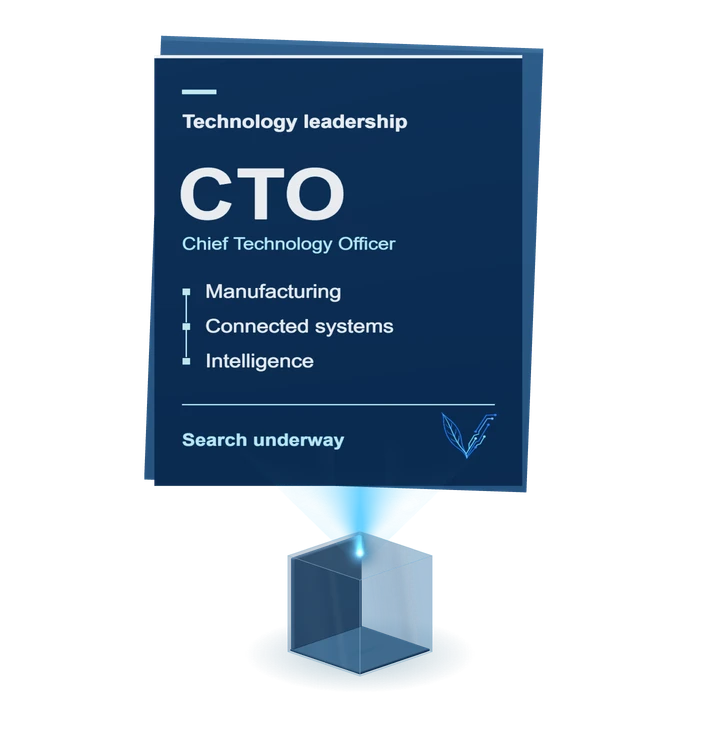
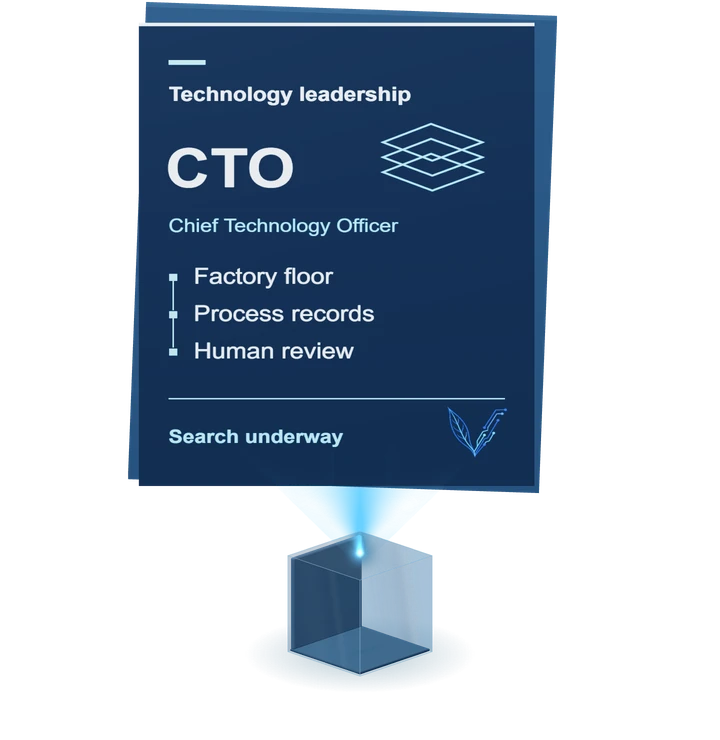
Unify Voltron wordmarks and release the hero and site refinements

Changed region(s): [[0.1528, 0.0, 0.7944, 0.6838]]

diff --git a/components/brand/commons-tree-renderer.ts b/components/brand/commons-tree-renderer.ts
@@ -15,13 +15,13 @@ type Mode='playing'|'paused'|'settled';
 /** Source anatomy and cutout foliage stay intact; particles reveal the finished surfaces. */
 export function mountCommonsTree(canvas:HTMLCanvasElement,host:HTMLDivElement,onMode:(mode:Mode)=>void){
  const handoff=createSceneHandoff(host,canvas),abort=new AbortController(),query=new URLSearchParams(location.search);
- let preparing=true,disposed=false,paused=false,visible=false,lost=false,frame=0,last=0,time=1.25,review=query.get('human-time')!==null;
+ let preparing=true,disposed=false,paused=false,visible=false,lost=false,frame=0,last=0,time=0,review=query.get('human-time')!==null;
  if(review)time=T.MathUtils.clamp(Number(query.get('human-time'))||0,0,commonsTreeDuration);
  let renderer:T.WebGLRenderer|undefined,draw=()=>{},resize=()=>{},release=()=>{};
  const dark=()=>document.documentElement.dataset.theme==='dark',reduced=()=>matchMedia('(prefers-reduced-motion: reduce)').matches;
  function stop(){cancelAnimationFrame(frame);frame=0;last=0;canvas.dataset.continuousRendering='false';}
- function schedule(){if(!renderer||disposed||paused||review||lost||!visible||document.hidden||reduced()||host.dataset.sceneState!=='live'||frame||time>=commonsTreeDuration)return;canvas.dataset.continuousRendering='true';frame=requestAnimationFrame(tick);}
- function tick(now:number){frame=0;if(disposed||paused||!visible||document.hidden||lost)return;time=Math.min(commonsTreeDuration,time+(last?Math.min(.08,(now-last)/1000):0));last=now;draw();if(time===commonsTreeDuration){stop();onMode('settled');}else schedule();}
+ function schedule(){if(!renderer||disposed||paused||review||lost||!visible||document.hidden||reduced()||host.dataset.sceneState!=='live'||frame)return;canvas.dataset.continuousRendering='true';frame=requestAnimationFrame(tick);}
+ function tick(now:number){frame=0;if(disposed||paused||!visible||document.hidden||lost)return;time+=last?Math.min(.08,(now-last)/1000):0;last=now;draw();schedule();}
  function fallback(){stop();handoff.fallback();host.dataset.fallback='true';host.dataset.scenePose='complete';onMode('settled');}
  function contextLost(e:Event){e.preventDefault();lost=true;fallback();}
  function contextRestored(){lost=false;delete host.dataset.fallback;draw();void handoff.reveal().then(schedule);}
@@ -70,13 +70,13 @@ export function mountCommonsTree(canvas:HTMLCanvasElement,host:HTMLDivElement,on
    let glowTune=1,glassOpacity=1,glassRoughness=1,glassReflection=1;
    const studio=observeArtworkTuning('commons',value=>{uniforms.particleScale.value=value.particleScale;glowTune=value.glow;glassOpacity=value.glassOpacity;glassRoughness=value.roughness;glassReflection=value.reflection;const key=scene.children.find(o=>o instanceof T.DirectionalLight) as T.DirectionalLight;key.position.x=-4+Math.sin(value.keyDirection)*5;materials.forEach((m,i)=>{m.roughness=T.MathUtils.clamp((i===0?.62:.68)*value.roughness,.15,1);m.envMapIntensity=.55*value.reflection;});draw();});
    release=()=>{studio.dispose();resources.forEach(r=>r.dispose());textures.forEach(t=>t.dispose());environment.dispose();renderer?.dispose();renderer?.forceContextLoss();};
-   draw=()=>{if(disposed||lost||!renderer)return;const state=commonsTreeState(time),night=dark();baseMaterial.color.setHex(night?0x406b84:0xc2d9e4);baseMaterial.opacity=state.cube*(night?.35:.55);shadowMaterial.opacity=state.cube*(night?.35:.65);uniforms.growth.value=state.growth;uniforms.canopy.value=state.canopy;uniforms.clock.value=time;uniforms.night.value=night?1:0;uniforms.ratio.value=renderer.getPixelRatio();construction.visible=state.growth>0&&state.growth<1;corners.visible=state.cube>.01;subject.rotation.y=state.yaw;
+   draw=()=>{if(disposed||lost||!renderer)return;const state=commonsTreeState(time),night=dark();baseMaterial.color.setHex(night?0x406b84:0xc2d9e4);baseMaterial.opacity=state.cube*(night?.35:.55);shadowMaterial.opacity=state.cube*(night?.35:.65);uniforms.growth.value=state.growth;uniforms.canopy.value=state.canopy;uniforms.clock.value=time;uniforms.night.value=night?1:0;uniforms.ratio.value=renderer.getPixelRatio();construction.visible=state.growth>0&&state.growth<1;corners.visible=state.cube>.01;subject.rotation.y=state.yaw+Math.max(0,time-commonsTreeDuration)*.12;
     materials.forEach((m,i)=>{m.color.setHex(night?(i===0?0x79a9c4:0x8cbac1):(i===0?0xa8c5d5:0xa9d0cb));if(i>0){m.emissive.setHex(night?0x258c8d:0x22776b);m.emissiveIntensity=T.MathUtils.smoothstep(state.canopy,.05,.4)*(.06+state.canopy*.16);}});
-    setGlass(cornerMaterial,'side',night);cornerMaterial.roughness=T.MathUtils.clamp(.20*glassRoughness,.10,.4);cornerMaterial.envMapIntensity=.85*glassReflection;const pulse=.55+.45*(.5+.5*Math.sin(time*5.4));cornerMaterial.color.setHex(night?0x305570:0x183c5c);cornerMaterial.color.lerp(new T.Color(night?0x8fd8ff:0x9adfff),state.glow);cornerMaterial.opacity=state.cube*Math.min(.62,(night?.49:.58)*glassOpacity);cornerMaterial.emissive.setHex(0x0a7fe0);cornerMaterial.emissiveIntensity=state.glow*pulse*.24*glowTune;
+    setGlass(cornerMaterial,'side',night);cornerMaterial.roughness=T.MathUtils.clamp(.20*glassRoughness,.10,.4);cornerMaterial.envMapIntensity=.85*glassReflection;const pulse=.55+.45*(.5+.5*Math.sin(time*5.4));cornerMaterial.color.setHex(night?0x2b506a:0x13334e);cornerMaterial.color.lerp(new T.Color(night?0x8fd8ff:0x9adfff),state.glow);cornerMaterial.opacity=state.cube*Math.min(.62,(night?.49:.58)*glassOpacity);cornerMaterial.emissive.setHex(0x0a7fe0);cornerMaterial.emissiveIntensity=state.glow*pulse*.24*glowTune;
     panes.forEach(({material:m,kind,index})=>{setGlass(m,kind,night);m.opacity=state.glazing*glassOpacity*(index===0?.025:index===4?.055:index===5?.09:night?.065:.08);m.roughness=.19*glassRoughness;m.envMapIntensity=.7*glassReflection;});
     host.dataset.glassFaces='6';host.dataset.cornerArm='.90';
     if(preparing)return;
-    renderer.render(scene,camera);canvas.dataset.animationTime=time.toFixed(3);canvas.dataset.yaw=state.yaw.toFixed(3);canvas.dataset.theme=night?'dark':'light';canvas.dataset.ready='true';canvas.dataset.settled=String(state.done);host.dataset.cells=String(commonsCornerCount);host.dataset.cube=state.cube>=1?'formed':'forming';host.dataset.glow=state.glow>.05?'pulsing':'off';host.dataset.phase=state.done?'settled':state.turn>0?'settling':state.growth>0?'growth':state.glow>0?'nodes':state.cube>0?'cube':'opening';};
+    renderer.render(scene,camera);canvas.dataset.animationTime=time.toFixed(3);canvas.dataset.yaw=subject.rotation.y.toFixed(3);canvas.dataset.theme=night?'dark':'light';canvas.dataset.ready='true';canvas.dataset.settled=String(state.done);host.dataset.cells=String(commonsCornerCount);host.dataset.cube=state.cube>=1?'formed':'forming';host.dataset.glow=state.glow>.05?'pulsing':'off';host.dataset.phase=state.done?'settled':state.turn>0?'settling':state.growth>0?'growth':state.glow>0?'nodes':state.cube>0?'cube':'opening';};
    resize=()=>{if(!renderer||disposed)return;const {width,height}=host.getBoundingClientRect();if(!width||!height)return;renderer.setSize(width,height,false);const aspect=width/height,extent=Math.max(6,6/aspect);camera.left=-extent*aspect/2;camera.right=extent*aspect/2;camera.top=extent/2;camera.bottom=-extent/2;camera.lookAt(0,1.75,0);camera.updateProjectionMatrix();draw();};
    if(reduced())time=commonsTreeDuration;resize();
    for(const texture of textures){

diff --git a/components/technology/operating-renderer.ts b/components/technology/operating-renderer.ts
@@ -125,11 +125,22 @@ export async function mountOperatingScene(canvas:HTMLCanvasElement,host:HTMLElem
  const dispatchRoot=new T.Group();dispatchRoot.position.x=-16;root.add(dispatchRoot);
  const parcel=box(root,[.9,.8,.8],[7,1.02,5.2],glass);box(dispatchRoot,[1.8,.015,1.5],[7,-.02,5.2],navy);
 
- function handler(){const g=new T.Group();root.add(g);box(g,[1.2,.6,.9],[0,.4,0],navy);box(g,[.15,1.8,.15],[.65,1,0],metal);const forks=new T.Group();g.add(forks);for(const z of [-.3,.3]){box(forks,[.9,handlingGeometry.forkThickness,.09],[1.05,0,z],metal);box(g,[.07,1.6,.07],[.45,1.1,z],metal);}box(g,[.7,.1,.9],[0,1.8,0],pearl);
+ function handler(){const wheels:T.Group[]=[];const g=new T.Group();root.add(g);box(g,[1.2,.6,.9],[0,.4,0],navy);box(g,[.15,1.8,.15],[.65,1,0],metal);const forks=new T.Group();g.add(forks);for(const z of [-.3,.3]){box(forks,[.9,handlingGeometry.forkThickness,.09],[1.05,0,z],metal);box(g,[.07,1.6,.07],[.45,1.1,z],metal);}box(g,[.7,.1,.9],[0,1.8,0],pearl);
  for(const z of [-.4,.4]){box(g,[.045,1.1,.045],[-.32,1.2,z],metal,.01);box(g,[.045,1.1,.045],[.31,1.2,z],metal,.01);}
  box(g,[.32,.45,.48],[-.22,.75,0],steelDark,.035);box(g,[.4,.09,.5],[0,.55,0],steelDark,.02);box(g,[.16,.6,.5],[.31,.75,0],navy,.025);
- box(g,[.2,.4,.76],[-.52,.44,0],polished,.035);for(const x of [-.4,.4])for(const z of [-.47,.47]){const w=new T.Mesh(own(new T.CylinderGeometry(.2,.2,.12,12)),navy);w.rotation.x=Math.PI/2;w.position.set(x,.2,z);g.add(w);}return {g,forks};}
+ box(g,[.2,.4,.76],[-.52,.44,0],polished,.035);for(const x of [-.4,.4])for(const z of [-.47,.47]){const w=new T.Mesh(own(new T.CylinderGeometry(.2,.2,.12,12)),navy);w.rotation.x=Math.PI/2;const axle=new T.Group();axle.position.set(x,.2,z);g.add(axle);axle.add(w);
+ box(axle,[.20,.035,.016],[0,0,Math.sign(z)*.067],metal,.005);wheels.push(axle);}
+ const lastPosition=new T.Vector3();let lastTime=-1,angle=0;
+ function roll(time:number){
+  if(lastTime>=0&&Math.abs(time-lastTime)<.4){
+   const dx=g.position.x-lastPosition.x,dz=g.position.z-lastPosition.z;
+   angle-=(dx*Math.cos(g.rotation.y)-dz*Math.sin(g.rotation.y))/.2;
+  }
+  wheels.forEach(wheel=>{wheel.rotation.z=angle;});lastPosition.copy(g.position);lastTime=time;
+ }
+ return {g,forks,roll};}
  const receiver=handler(),loader=handler();
+ const seatedForkHeight=operatingState(24).palletY+handlingGeometry.receiveForkOffset;
  // Fixed-length nested sleeves make the dispatch reach visible without stretching the forks.
  const reachStages=[new T.Group(),new T.Group()];loader.forks.add(reachStages[0]);reachStages[0].add(reachStages[1]);
  reachStages.forEach((stage,i)=>{for(const z of [-.3,.3])box(stage,[.74,.018,.075-i*.016],[1.13,0,z],i===0?steelDark:polished,.003);});
@@ -163,7 +174,11 @@ export async function mountOperatingScene(canvas:HTMLCanvasElement,host:HTMLElem
   dockBridge.visible=state.bridge>0;dockBridge.scale.x=Math.max(.001,state.bridge);dockBridge.position.x=-9.475-1.1*state.bridge/2;
   pallet.visible=state.time>=6&&state.time<24;pallet.position.set(state.part.x,state.palletY,state.part.z);
   receiver.g.visible=state.time>=11&&state.time<26;receiver.g.rotation.y=state.handlerYaw;receiver.g.position.set(state.part.x-Math.cos(state.handlerYaw)*1.05,0,state.part.z+Math.sin(state.handlerYaw)*1.05);receiver.forks.position.y=state.palletY+handlingGeometry.receiveForkOffset;
-  if(state.time>=24){const p=Math.min(1,(state.time-24)/2);receiver.g.position.set(-5-p*3,0,factoryLayout.wetLineZ);receiver.forks.position.y=.2;}
+  if(state.time>=24){
+   const retreat=T.MathUtils.smoothstep(state.time,24.3,26);
+   receiver.g.position.set(-4+1.05+retreat*1.4,0,factoryLayout.wetLineZ);
+   receiver.forks.position.y=T.MathUtils.lerp(seatedForkHeight,.2,T.MathUtils.smoothstep(state.time,24,24.3));
+  }
   carrier.position.set(state.time>=58?-4:state.carrier.x,0,state.time>=58?factoryLayout.returnLineZ:state.carrier.z);carrier.rotation.y=state.carrierYaw;turntables[0].rotation.y=-Math.PI/2*T.MathUtils.smoothstep(state.time,39.4,39.9);turntables[1].rotation.y=-Math.PI/2-Math.PI/2*T.MathUtils.smoothstep(state.time,52.3,52.8);carrier.visible=true;
   trolley.position.z=0;
   const attach=T.MathUtils.smoothstep(state.time,23,24)*(1-T.MathUtils.smoothstep(state.time,58,59));
@@ -182,6 +197,7 @@ export async function mountOperatingScene(canvas:HTMLCanvasElement,host:HTMLElem
   outbound.g.position.set(state.outboundX,0,6);outbound.g.visible=state.time>=67;outbound.update(state.outboundX,state.outboundDoor);outbound.roof.material=state.outboundDoor>.1?glass:pearl;
   loader.g.visible=state.time>=72&&state.time<80;loader.g.rotation.y=0;loader.g.position.set(Math.min(state.part.x-1.05,-8.8),0,state.part.z);loader.forks.position.y=handlingGeometry.dispatchForkHeight;const reach=dispatchReach(state.time,state.part.x);reachStages.forEach((stage,i)=>stage.position.x=reach.stages[i]);
   if(state.time>=78){loader.g.position.x=-8.8-(state.time-78)*1.3;loader.forks.scale.x=1;loader.forks.position.x=0;}
+  receiver.roll(state.time);loader.roll(state.time);
   scan.position.y=1.4-state.receiving*.8;scan.visible=state.time>=14.7&&state.time<16.5;receivingScanMaterial.opacity=scan.visible?.2*Math.sin(state.receiving*Math.PI):0;
   const baths=tanks.map(tank=>factoryBathState(state.time,tank.index));
   const draining=baths.find(bath=>bath.draining);

diff --git a/components/performance/ScenePoster.tsx b/components/performance/ScenePoster.tsx
@@ -31,5 +31,5 @@ export function ScenePoster({kind}:{kind:keyof typeof posters}) {
   const cultureOpening=kind==='handCulture'?responsiveOpening.handCulture as Record<string,{light:string;dark:string}>:undefined;
   const nativeStyle=native?Object.fromEntries(Object.entries(native).flatMap(([device,frame])=>{const aspect=frame.width/frame.height,h=Math.max(fit.minHeight,fit.minWidth/aspect);return [[`--scene-native-${device}-width`,h*aspect],[`--scene-native-${device}-height`,h]];})) as CSSProperties:undefined;
   const scale=`min(calc((100cqw - 2 * ${padding}) / ${fit.minWidth}),calc((100cqh - 2 * ${padding}) / ${fit.minHeight}))`;
-  return <span className={`scene-poster${kind==='home'?' scene-poster-home':''}`} aria-hidden="true">{(['opening','complete'] as const).map(pose=><span key={pose} className={`scene-pose-${pose}`}>{pose==='opening' && (kind==='home'||kind==='technology'||kind==='plant'||kind==='process')?<NativeOpening scene={kind}/>: (['light','dark'] as const).map(theme => <Picture key={theme} initial={kind==='home'&&pose==='opening'} style={pose==='opening'?nativeStyle:undefined} className={`art-theme-${theme} ${pose==='opening'&&responsive?`scene-responsive-opening scene-responsive-${kind}${native?' scene-native-opening':''}`:''}`}>{pose==='opening'&&cultureOpening?.mobileTall&&<source media="(max-width:767px) and (min-height:884px)" srcSet={hdOpening(kind,'mobileTall',theme,cultureOpening.mobileTall[theme])}/>} {pose==='opening'&&responsive&&<source media="(max-width:767px)" srcSet={hdOpening(kind,'mobile',theme,responsive.mobile[theme])}/>}{pose==='opening'&&cultureOpening?.tablet&&<source media="(min-width:768px) and (max-width:1023px)" srcSet={hdOpening(kind,'tablet',theme,cultureOpening.tablet[theme])}/>} {pose==='opening'&&cultureOpening?.short&&<source media="(min-width:1024px) and (max-height:780px)" srcSet={hdOpening(kind,'short',theme,cultureOpening.short[theme])}/>}{pose==='opening'&&cultureOpening?.tall&&<source media="(min-width:1024px) and (min-height:920px)" srcSet={hdOpening(kind,'tall',theme,cultureOpening.tall[theme])}/>}<img {...(pose==='complete'?hdPoster(kind,pose,theme,posters[kind][theme]):{srcSet:hdOpening(kind,responsive?'desktop':'generic',theme,responsive?responsive.desktop[theme]:opening[kind][theme])})} className={`art-theme-${theme}`} src={pose==='opening'&&responsive?responsive.desktop[theme]:(pose==='opening'?opening:posters)[kind][theme]} width="640" height="520" alt="" decoding="async" loading='lazy' fetchPriority={pose==='opening'&&kind==='home'?'high':'auto'} style={{width:kind==='home'?'calc(100cqh * 1.5 * var(--home-poster-fov,1))':`calc(${scale} * ${pose==='opening'&&native?`var(--scene-native-width, ${fit.width})`:fit.width})`,height:kind==='home'?'calc(100cqh * var(--home-poster-fov,1))':`calc(${scale} * ${pose==='opening'&&native?`var(--scene-native-height, ${fit.height})`:fit.height})`,maxWidth:'none',objectFit:'fill'}} /></Picture>)}</span>)}</span>;
+  return <span className={`scene-poster${kind==='home'?' scene-poster-home':''}`} aria-hidden="true">{(['opening','complete'] as const).map(pose=><span key={pose} className={`scene-pose-${pose}`}>{pose==='opening' && (kind==='home'||kind==='technology'||kind==='plant'||kind==='process')?<NativeOpening scene={kind}/>: (['light','dark'] as const).map(theme => <Picture key={theme} initial={kind==='home'} style={pose==='opening'?nativeStyle:undefined} className={`art-theme-${theme} ${pose==='opening'&&responsive?`scene-responsive-opening scene-responsive-${kind}${native?' scene-native-opening':''}`:''}`}>{pose==='opening'&&cultureOpening?.mobileTall&&<source media="(max-width:767px) and (min-height:884px)" srcSet={hdOpening(kind,'mobileTall',theme,cultureOpening.mobileTall[theme])}/>} {pose==='opening'&&responsive&&<source media="(max-width:767px)" srcSet={hdOpening(kind,'mobile',theme,responsive.mobile[theme])}/>}{pose==='opening'&&cultureOpening?.tablet&&<source media="(min-width:768px) and (max-width:1023px)" srcSet={hdOpening(kind,'tablet',theme,cultureOpening.tablet[theme])}/>} {pose==='opening'&&cultureOpening?.short&&<source media="(min-width:1024px) and (max-height:780px)" srcSet={hdOpening(kind,'short',theme,cultureOpening.short[theme])}/>}{pose==='opening'&&cultureOpening?.tall&&<source media="(min-width:1024px) and (min-height:920px)" srcSet={hdOpening(kind,'tall',theme,cultureOpening.tall[theme])}/>}<img {...(pose==='complete'?hdPoster(kind,pose,theme,posters[kind][theme]):{srcSet:hdOpening(kind,responsive?'desktop':'generic',theme,responsive?responsive.desktop[theme]:opening[kind][theme])})} className={`art-theme-${theme}`} src={pose==='opening'&&responsive?responsive.desktop[theme]:(pose==='opening'?opening:posters)[kind][theme]} width="640" height="520" alt="" decoding="async" loading={kind==='home'?'eager':'lazy'} fetchPriority={pose==='opening'&&kind==='home'?'high':'auto'} style={{width:kind==='home'?'calc(100cqh * 1.5 * var(--home-poster-fov,1))':`calc(${scale} * ${pose==='opening'&&native?`var(--scene-native-width, ${fit.width})`:fit.width})`,height:kind==='home'?'calc(100cqh * var(--home-poster-fov,1))':`calc(${scale} * ${pose==='opening'&&native?`var(--scene-native-height, ${fit.height})`:fit.height})`,maxWidth:'none',objectFit:'fill'}} /></Picture>)}</span>)}</span>;
 }

diff --git a/app/about/voltron-commons/page.tsx b/app/about/voltron-commons/page.tsx
@@ -1,19 +1,30 @@
-import {ReplayableStudy} from '@/components/brand/ReplayableStudy';
+import {BookOpen, Boxes, Compass, DoorOpen, Leaf, Lightbulb, ScanEye, Waypoints} from 'lucide-react';
 import type { Metadata } from 'next';
 import {Hero} from '@/components/brand/Hero';
 import {HumanHeroArtwork} from '@/components/brand/HumanHeroArtwork';
 import {Action,Intro,Section,SiteShell} from '@/components/brand/SiteShell';
-import {CommonsStudy} from '@/components/commons/CommonsStudy';
+
 import {commonsStudies} from '@/components/commons/commons-content';
 import '../../home-surfaces.css';
 import '../../supporting-pages.css';
 import './commons.css';
 
 export const metadata:Metadata={title:'Voltron Commons',description:'Explore manufacturing, exchange perspectives and help shape developing directions for access, learning and shared progress.'};
+const cardIcons = {
+ resources: [DoorOpen], learning: [Lightbulb, Waypoints, ScanEye, Leaf],
+ programs: [BookOpen, Boxes, Compass], participation: [BookOpen, Waypoints, Leaf],
+};
+function CommonsCards({kind}:{kind:keyof typeof cardIcons}) {
+ const items = kind === 'programs' ? commonsStudies.programs.slice(0,3) : commonsStudies[kind];
+ return <div className="commons-participation commons-icon-cards">{items.map(([title,,description], index) => {
+  const Icon = cardIcons[kind][index];
+  return <article key={title}><Icon aria-hidden="true" size={24}/><h3>{title}</h3><p>{description}</p></article>;
+ })}</div>;
+}
 export default function CommonsPage(){return <SiteShell><div className="supporting-page commons-page">
  <Hero className="human-story-hero commons-workshop-hero" breadcrumb="Voltron Commons" eyebrow="Voltron Commons" keywords="Access · Learning · Possibility" title="Voltron Commons" illustration={<HumanHeroArtwork kind="commons"/>} primary="Explore and learn" href="#commons-directions" secondary="Explore a collaboration" secondaryHref="/partner?interest=commons#partnership"/>
- <Section id="commons-directions"><Intro eyebrow="Access creates capability" title="Give access. Build agency.">Step inside the connected factory. Follow one lot through treatment and inspection, and open the records behind each decision.</Intro><ReplayableStudy inline label="resources"><CommonsStudy kind="resources"/></ReplayableStudy></Section>
- <Section id="shared-learning"><Intro eyebrow="Capability enables contribution" title="Learning beyond a single discipline.">Follow a sketch from the page to a formed surface, then see the observation added to the original drawing.</Intro><ReplayableStudy inline label="learning"><CommonsStudy kind="learning"/></ReplayableStudy></Section>
- <Section id="developing-directions"><Intro title="More ways to learn">Three pathways in development.</Intro><div className="commons-participation">{commonsStudies.programs.slice(0,3).map(([title,,text])=><article key={title}><h3>{title}</h3><p>{text}</p></article>)}</div></Section>
- <Section id="participation"><Intro eyebrow="Contribution creates shared growth" title="Bring a question, a practice, or a possibility.">A conversation can begin with something you already know, something you want to understand or a place you want to help.</Intro><div className="commons-participation">{commonsStudies.participation.map(([title,heading,text])=><article key={title}><div className="desktop-story-details"><h3>{title}</h3><p>{text}</p></div><details className="mobile-story-details"><summary>{title}</summary><p>{text}</p></details></article>)}</div><div className="commons-invitation"><p>Explore how your experience, research or community initiative could contribute to Commons.</p><Action href="/partner?interest=commons#partnership">Explore a collaboration</Action></div></Section>
+ <Section id="commons-directions"><Intro eyebrow="Access creates capability" title="Give access. Build agency.">Step inside the connected factory. Follow one lot through treatment and inspection, and open the records behind each decision.</Intro><CommonsCards kind="resources"/></Section>
+ <Section id="shared-learning"><Intro eyebrow="Capability enables contribution" title="Learning beyond a single discipline.">Four ways to explore a question across disciplines.</Intro><CommonsCards kind="learning"/></Section>
+ <Section id="developing-directions"><Intro title="More ways to learn">Three pathways in development.</Intro><CommonsCards kind="programs"/></Section>
+ <Section id="participation"><Intro eyebrow="Contribution creates shared growth" title="Bring a question, a practice, or a possibility.">A conversation can begin with something you already know, something you want to understand or a place you want to help.</Intro><CommonsCards kind="participation"/><div className="commons-invitation"><p>Explore how your experience, research or community initiative could contribute to Commons.</p><Action href="/partner?interest=commons#partnership">Explore a collaboration</Action></div></Section>
  </div></SiteShell>;}

diff --git a/components/about/leadership-renderer.ts b/components/about/leadership-renderer.ts
@@ -98,14 +98,20 @@ export async function mountLeadership(canvas:HTMLCanvasElement,host:HTMLDivEleme
    ctx.fillStyle=dark?'#102840':'#edf6ff';ctx.fillRect(0,0,600,800);
    ctx.fillStyle=accent;ctx.fillRect(45,59,56,8);
    ctx.fillStyle=ink;ctx.font='600 34px sans-serif';ctx.fillText('Technology leadership',45,130);
-   ctx.font='700 132px sans-serif';ctx.fillText('CTO',37,301);
+   ctx.font='600 94px sans-serif';ctx.fillText('CTO',40,280);
+   // Three connected layers share one drawing datum on the leadership brief.
+   ctx.strokeStyle=accent;ctx.lineWidth=3;
+   for(let level=0;level<fields;level++){
+    const y=202+level*26;
+    ctx.beginPath();ctx.moveTo(370,y);ctx.lineTo(443,y-32);ctx.lineTo(521,y);ctx.lineTo(445,y+32);ctx.closePath();ctx.stroke();
+   }
    ctx.fillStyle=accent;ctx.font='500 32px sans-serif';ctx.fillText('Chief Technology Officer',45,358);
-   const rows=['Manufacturing','Connected systems','Intelligence'];
+   const rows=['Factory floor','Process records','Human review'];
    for(let i=0;i<fields;i++){
     const y=440+i*65;
     ctx.fillStyle=accent;ctx.fillRect(46,y-9,12,12);
     if(i>0)ctx.fillRect(51,y-62,2,51);
-    ctx.fillStyle=ink;ctx.font='500 35px sans-serif';ctx.fillText(rows[i],83,y+8);
+    ctx.fillStyle=ink;ctx.font='500 38px sans-serif';ctx.fillText(rows[i],83,y+8);
    }
    if(sealed){
     ctx.fillStyle=accent;ctx.fillRect(45,647,510,2);
@@ -115,7 +121,7 @@ export async function mountLeadership(canvas:HTMLCanvasElement,host:HTMLDivEleme
    map.needsUpdate=true;
   };
   const map=track(new T.CanvasTexture(sheet));map.colorSpace=T.SRGBColorSpace;map.anisotropy=Math.min(4,renderer.capabilities.getMaxAnisotropy());
-  const printed=track(new T.MeshPhysicalMaterial({map,roughness:.38,clearcoat:.55,clearcoatRoughness:.22,clippingPlanes:[mask]}));
+  const printed=track(new T.MeshPhysicalMaterial({map,roughness:.56,clearcoat:.16,clearcoatRoughness:.38,clippingPlanes:[mask]}));
   const face=new T.Mesh(track(new T.PlaneGeometry(width,height)),printed);face.position.set(-.12,0,.168);subject.add(face);
   subject.position.set(0,height/2,-.13);
   updateBrief=drawBrief;
@@ -139,7 +145,7 @@ export async function mountLeadership(canvas:HTMLCanvasElement,host:HTMLDivEleme
    fragmentShader:`varying vec2 uvImage;uniform sampler2D map;uniform float reveal;
     void main(){vec4 texel=texture2D(map,uvImage);float grey=dot(texel.rgb,vec3(.2126,.7152,.0722));
     float delta=reveal-uvImage.y;float light=.065*exp(-abs(delta)*80.);
-    gl_FragColor=vec4(mix(vec3(.012,.031,.063),vec3(.96,.98,1.),pow(grey,.82))+vec3(.014,.09,.16)*sin(grey*3.14159)+light*vec3(.4,.7,1.),texel.a*smoothstep(0.,.10,uvImage.y)*smoothstep(-.02,.02,delta));
+    gl_FragColor=vec4(mix(vec3(.012,.031,.063),vec3(.96,.98,1.),pow(grey,.94))+vec3(.014,.09,.16)*sin(grey*3.14159)+light*vec3(.4,.7,1.),texel.a*smoothstep(0.,.10,uvImage.y)*smoothstep(-.02,.02,delta));
     #include <colorspace_fragment>
     }`}));
   const photo=new T.Mesh(face,image);photo.renderOrder=3;subject.add(photo);
@@ -180,7 +186,7 @@ export async function mountLeadership(canvas:HTMLCanvasElement,host:HTMLDivEleme
     mantle.scale.set(portraitWidth*scale*.86,height,1);
     mantle.position.set(.04,origin+height/2,0);
     spill.uniforms.join.value=(portraitBottom-origin)/height;
-    spill.uniforms.amount.value=formed*(dark?.42:.30);
+    spill.uniforms.amount.value=formed*(dark?.34:.24);
     spill.uniforms.dark.value=Number(dark);
    }
   }
@@ -190,7 +196,7 @@ export async function mountLeadership(canvas:HTMLCanvasElement,host:HTMLDivEleme
    const automotive=kind==='automotive';
    content.position.y=automotive?-.26:-.63;
    content.rotation.set(automotive?.14:0,automotive?.77:.13*(1-formed),0);
-   content.scale.setScalar(scale*(automotive?1.82:1.06));
+   content.scale.setScalar(scale*(automotive?1.82:1.14));
    mask.constant=kind==='search'?2.6:-.65+3*T.MathUtils.smoothstep(time,0,1.2);
    beam.set(.68*formed,dark,time,camera);
    updateBrief?.(time,dark);

diff --git a/components/network/network-renderer.ts b/components/network/network-renderer.ts
@@ -1,5 +1,6 @@
 export {prepareArtworkEnvironment} from '../brand/artwork-studio';
 import * as T from 'three';
+import {receivingForkPath} from "./network-simulation";
 import {plantFrame} from './plant-framing';
 import {operatingFacility} from './authored-scenes';
 import {mountAuthoredNetwork} from './authored-renderer';
@@ -47,7 +48,8 @@ function mountOwnedNetwork(canvas:HTMLCanvasElement,host:HTMLElement,kind:Networ
  const ram=kit.box(lift,[.25,1,.24],[0,0,0],kit.steel);
  const liftTop=kit.box(lift,[.88,.08,.65],[0,0,0],kit.steel);
  let transfer:T.Group|undefined;const routes:T.Line[]=[],paths:Point[][]=[],signals:T.Mesh[]=[];
- const forkLift=new T.Group();handler.add(forkLift);for(const x of [-.18,.18])kit.box(forkLift,[.1,.08,1.1],[x,.27,0],kit.steel);for(const x of [-.4,.4])for(const z of [.55,1.05]){const wheel=new T.Mesh(own(new T.CylinderGeometry(.16,.16,.1,12)),kit.navy);wheel.rotation.z=Math.PI/2;wheel.position.set(x,.17,z);handler.add(wheel);}
+ const handlerWheels:T.Group[]=[];const forkLift=new T.Group();handler.add(forkLift);for(const x of [-.18,.18])kit.box(forkLift,[.1,.08,1.1],[x,.27,0],kit.steel);for(const x of [-.4,.4])for(const z of [.55,1.05]){const wheel=new T.Mesh(own(new T.CylinderGeometry(.16,.16,.1,12)),kit.navy);wheel.rotation.z=Math.PI/2;const axle=new T.Group();axle.position.set(x,.16,z);handler.add(axle);axle.add(wheel);
+ kit.box(axle,[.012,.16,.035],[Math.sign(x)*.057,0,0],kit.steel);handlerWheels.push(axle);}
  if(kind==='learning'){
   primary.g.position.set(-7,0,3);primary.g.scale.setScalar(.7);
   const second=kit.factory(root,1);second.g.position.set(7,0,3);second.g.scale.setScalar(.7);factories.push(second);
@@ -84,7 +86,9 @@ function mountOwnedNetwork(canvas:HTMLCanvasElement,host:HTMLElement,kind:Networ
   const insertion=T.MathUtils.smoothstep(time,5.1,5.5);
   const withdrawal=T.MathUtils.smoothstep(time,8.15,9.1);
   handler.position.set(time<5.5?-4.5:time<8?p.part[0]:-2.4+withdrawal*1.8,0,time<5.5?1.6+1.6*insertion:time<8?p.part[2]:-1.8);
-  handler.rotation.y=Math.PI-Math.PI*.5*T.MathUtils.smoothstep(time,7.1,7.25);
+  const path=receivingForkPath(time);handler.rotation.y=path.yaw;
+  const travel=path.distance+withdrawal*1.8-insertion*1.6;
+  handlerWheels.forEach(wheel=>{wheel.rotation.x=travel/.16;});
   forkLift.position.y=(time<5.5?.805:time<8?p.part[1]:1.12)-.325-.31;
   factories.forEach((f,i)=>{const localTime=kind==='owned'?time:kind==='learning'?(i===0?8+Math.min(3,time):i===1?Math.max(0,time-8):0):kind==='partnership'?Math.max(0,time-4):0;const operation=productionState(localTime);f.carrier.position.set(localTime<8?-2.4:operation.part[0],0,-1.8);f.hook.position.y=localTime<8?0:operation.part[1]-1.12;f.part.visible=kind==='owned'?true:kind==='learning'&&((i===0&&time<8)||(i===1&&time>=16&&time<20));if(kind==='owned')f.part.position.fromArray(p.part);f.scan.visible=kind==='owned'?p.scan:kind==='learning'&&i===1&&time>=18&&time<20;const sweep=inspectionSweep(time);f.scan.userData.scanner.update(f.scan.visible?sweep.strength:0,dark);f.scan.position.y=sweep.height;f.record.visible=kind==='owned'?p.record:kind==='learning'?time>=[3,12,21][i]:false;f.capability.visible=kind==='owned'?time>=20:false;f.cargo.visible=false;f.tanks.forEach((tank,j)=>{tank.material=operation.phase==='Dwell'&&j===2?kit.active:kit.navy;});});
   if(kind==='owned'){primary.carrier.position.x=time>=12?4.2:Math.max(-2.4,Math.min(4.2,p.part[0]));primary.hook.position.y=0;

diff --git a/components/brand/collaboration-renderer.ts b/components/brand/collaboration-renderer.ts
@@ -69,7 +69,7 @@ export async function mountCollaboration(canvas:HTMLCanvasElement,host:HTMLEleme
  function size(){const r=host.getBoundingClientRect();if(!r.width||!r.height)return;renderer.setSize(r.width,r.height,false);aspect=r.width/r.height;const h=Math.max(kind==='about'?5.6:partnerStage.height,(kind==='about'?7.4:partnerStage.width)/aspect);camera.left=-h*aspect/2;camera.right=h*aspect/2;camera.top=h/2;camera.bottom=-h/2;camera.updateProjectionMatrix();draw();}
  function stop(){cancelAnimationFrame(frame);frame=0;last=0;quality.reset();host.dataset.running='false';}
  function schedule(){if(!disposed&&!lost&&!prefersStaticScene()&&!paused&&!frozen&&visible&&!document.hidden&&!frame&&host.dataset.sceneState==='live'){host.dataset.running='true';frame=requestAnimationFrame(tick);}}
- function tick(now:number){frame=0;if(disposed||lost||!visible||document.hidden||paused||frozen)return;time+=last?Math.min(.08,(now-last)/1000):0;if(time>14)time=kind==="partner"?8:0;last=now;if(quality.sample(now)){renderer.setPixelRatio(quality.ratio);size();}draw();schedule();}
+ function tick(now:number){frame=0;if(disposed||lost||!visible||document.hidden||paused||frozen)return;time+=last?Math.min(.08,(now-last)/1000):0;if(time>14)time%=14;canvas.style.filter=time>13?"opacity("+Math.max(0,14-time)+")":"";last=now;if(quality.sample(now)){renderer.setPixelRatio(quality.ratio);size();}draw();schedule();}
  const sizing=new ResizeObserver(size),themes=new MutationObserver(draw),view=new IntersectionObserver(([e])=>{visible=e.isIntersecting&&e.intersectionRatio>=.25;if(visible)schedule();else stop();},{threshold:[0,.25]});
  const visibility=()=>document.hidden?stop():schedule(),contextLost=(e:Event)=>{e.preventDefault();lost=true;stop();handoff.fallback();onMode('static');},restore=()=>{lost=false;size();void handoff.reveal().then(()=>{if(!disposed){onMode(time===12?'settled':paused?'paused':'playing');schedule();}});};
  const controller:CollaborationController={toggle(){if(time===12)return;paused=!paused;if(paused)stop();else{frozen=false;schedule();}onMode(paused?'paused':'playing');},replay(){stop();time=0;paused=frozen=false;draw();onMode('playing');schedule();},seek(value){stop();time=Number.isFinite(value)?T.MathUtils.clamp(value,0,12):0;paused=frozen=true;draw();onMode(time===12?'settled':'paused');},dispose(){if(disposed)return;disposed=true;stop();handoff.dispose();sizing.disconnect();themes.disconnect();view.disconnect();document.removeEventListener('visibilitychange',visibility);canvas.removeEventListener('webglcontextlost',contextLost);canvas.removeEventListener('webglcontextrestored',restore);signal.removeEventListener('abort',controller.dispose);mixers.forEach(m=>{m.stopAllAction();m.uncacheRoot(m.getRoot());});const skeletons=new Set<T.Skeleton>();people.forEach(root=>root.traverse(o=>{if(o instanceof T.SkinnedMesh)skeletons.add(o.skeleton);}));skeletons.forEach(s=>s.dispose());formations.forEach(f=>f.dispose());partnership?.dispose();geometries.forEach(g=>g.dispose());materials.forEach(m=>m.dispose());key.shadow.dispose();environment.dispose();renderer.dispose();renderer.forceContextLoss();}};

diff --git a/components/intelligence/IntelligenceStory.tsx b/components/intelligence/IntelligenceStory.tsx
@@ -15,13 +15,23 @@ function RecordSheet({title,children,open,onClose}:{title:string;children:React.
  const ref=useInspectorSheet(open),id=useId();
  return <dialog onKeyDown={containDialogFocus} ref={ref} className="intelligence-sheet" aria-labelledby={id} onCancel={onClose} onClose={e=>{if(!e.currentTarget.open)onClose();}} onClick={e=>{if(isDialogBackdropClick(e))onClose();}}><header><h3 id={id}>{title}</h3><button type="button" aria-label="Close details" onClick={onClose}><X size={20}/></button></header>{children}</dialog>;
 }
-function LotBadge(){return <div className="investigation-identity"><span>{investigation.lot}</span><span>{investigation.station}</span><span>Connected to Technology</span></div>;}
-function RecordDetail({selected}:{selected:number}){return <><p className="eyebrow">Connected evidence</p><h3>{evidenceSources[selected][0]}</h3><p>{evidenceSources[selected][1]}</p><dl className="record-provenance"><div><dt>Identity</dt><dd>{investigation.lot}</dd></div><div><dt>Operation</dt><dd>{investigation.station}</dd></div><div><dt>Retained</dt><dd>Source · time · revision</dd></div></dl></>;}
+function LotBadge(){return <div className="investigation-identity"><span>{investigation.lot}</span><span>{investigation.station}</span><span>Illustrative investigation</span></div>;}
+const sourceChecks=[
+ 'Match the channel and reading time to this operation.',
+ 'Match the inspected feature and inspection method to the requirement.',
+ 'Check the instrument identity and calibration validity on the measurement date.',
+ 'Link the nonconformance to the affected lot and its corrective action.',
+ 'Confirm the document owner and the revision used for the operation.',
+ 'Match the sample identity and test method to the lot.',
+ 'Verify the issuer and the material or lot covered by the certificate.',
+ 'Check who made the observation, when, and at which station.',
+] as const;
+function RecordDetail({selected}:{selected:number}){return <><p className="eyebrow">Connected evidence</p><h3>{evidenceSources[selected][0]}</h3><p>{evidenceSources[selected][1]}</p><dl className="record-provenance"><div><dt>Identity</dt><dd>{investigation.lot}</dd></div><div><dt>Operation</dt><dd>{investigation.station}</dd></div></dl><div className="evidence-check"><strong>Check before review</strong><p>{sourceChecks[selected]}</p></div></>;}
 function EvidenceDiagram({stage,source}:{stage:number;source:number}){
  const rows=[
   {title:investigation.station,detail:'Condition observed'},
   {title:investigation.lot,detail:'Lot traced to this operation'},
-  {title:evidenceSources[source][0],detail:'Source retained for review'},
+  {title:evidenceSources[source][0],detail:'Linked record · awaiting human review'},
  ];
  return <ol className="evidence-trace" aria-label="How the evidence is assembled">
   {rows.map(({title,detail},index)=><li key={index} data-reached={index<=stage} aria-current={index===stage?'step':undefined}>

diff --git a/components/technology/operating-model.ts b/components/technology/operating-model.ts
@@ -109,10 +109,16 @@ export function operatingState(input:number){
  const depart=smooth((time-82)/5),outboundX=-19+smooth((time-67)/3)*13-depart*13;
  const receiving=travel(time,[[10,-10.6,1.055,factoryLayout.wetLineZ+1.7],[11,-10.6,1.055,factoryLayout.wetLineZ+1.7],[14,-9,1.055,factoryLayout.wetLineZ],[14.7,-9,.475,factoryLayout.wetLineZ],[16.5,-9,.475,factoryLayout.wetLineZ],[17.3,-9,1.055,factoryLayout.wetLineZ],[18,-9,1.055,factoryLayout.wetLineZ],[20,-6,1.055,factoryLayout.wetLineZ],[22,-6,1.055,factoryLayout.wetLineZ],[24,-4,1.055,factoryLayout.wetLineZ]]);
  const postProcess=travel(time,[[58,-4,1.055,factoryLayout.returnLineZ],[67,-4,1.055,factoryLayout.returnLineZ],[68,-4,1.055,4.8],[69,-9,1.055,4.8],[69.6,-9,1.055,5.2],[70.3,-9,.955,5.2],[73,-9,.955,5.2],[75,-9,.955,6],[78,-6.4,.955,6],[82,-6.4,.955,6],[87,-19.4,.955,6]]);
+ if(time>=11&&time<=14){
+  const progress=smooth((time-11)/3);
+  receiving.x=-10.6+1.6*progress;
+  receiving.z=factoryLayout.wetLineZ+1.7*(1-progress*progress*(3-2*progress));
+ }
  const part=time<10?{x:incomingX+1.4,y:1.055,z:factoryLayout.wetLineZ+1.7}:time<24?receiving:time<58?process:postProcess;
  const event=operatingEvents.filter(e=>e[0]<=time).at(-1),eventProgress=event?clamp((time-event[0])/2):1;
  const signals=event&&time<event[0]+2?event[2].map(product=>({product,entity:event[1],progress:eventProgress})):[];
- const handlerYaw=Math.PI*(1-smooth((time-17.3)/.7))+Math.PI/2*smooth((time-19.7)/.6)-Math.PI/2*smooth((time-21.7)/.6);
+ const laneChange=smooth((time-11)/3);
+ const handlerYaw=Math.PI+Math.atan2(1.7*6*laneChange*(1-laneChange),1.6);
  const qualityPhase=time<58?'Waiting for lot':time<61.5?'Positioning':time<62?'Fixture clamping':time<65?'Inspection in progress':time<66?'Evidence recorded':time<67?'Released':'Ready for next lot';
  const scanning=time>=62&&time<65;
  return {time,chapter,hold,reviewed,released,dispatched:time>=87,routeIndex,carrier:{x:carrierX,z:carrierZ},railProgress:routeIndex,carrierYaw:-Math.PI/2*smooth((time-39.4)/.5)-Math.PI/2*smooth((time-52.3)/.5),ovenDoor,ovenEntryOpen,ovenExitOpen,ovenActive,processStage:time<24?'Receiving':time<30?'Tank 01':time<36?'Tank 02':time<38.65?'Tank 03':time<40.6?'Transfer to CED':time<51.2?'CED · T04':time<53.5?'Oven infeed':time<56.5?'Curing oven':time<58?'Transfer to quality':time<67?'Inspection':'Dispatch',part,incomingX,handlerYaw,outboundX,

diff --git a/components/entry/BrandEntry.tsx b/components/entry/BrandEntry.tsx
@@ -9,6 +9,8 @@ import { ThemeToggle } from "@/components/brand/ThemeToggle";
 import { EntryAudio } from "./EntryAudio";
 import { entryDuration, entryStateAt, advanceEntryClock } from "./entry-timeline";
 import {prefersStaticScene} from '../performance/scene-policy';
+import scenePosters from "@/lib/scene-posters.json";
+import {EntryDissolve,entryExitMs} from "./EntryDissolve";
 import {IdentityTile} from './IdentityTile';
 
 
@@ -28,6 +30,7 @@ export function BrandEntry({locked=false,children,extraControls,celebration}:{lo
   const faceRef=useRef(0),readyRef=useRef(false);
   const navigation=useRef<ReturnType<typeof setTimeout> | null>(null);
   const router=useRouter();
+  useEffect(()=>{if(!locked)router.prefetch("/?enter=1");},[locked,router]);
   const [paused,setPaused]=useState(false);
   const pausedRef=useRef(false),motionControl=useRef<(()=>void) | null>(null);
   useEffect(()=>()=>{if(navigation.current)clearTimeout(navigation.current);},[]);
@@ -90,8 +93,10 @@ export function BrandEntry({locked=false,children,extraControls,celebration}:{lo
   function enter(event: MouseEvent<HTMLAnchorElement>, skip=false){
     if(locked || (!ready && !skip) || leaving){event.preventDefault();return;}
     if(event.metaKey || event.ctrlKey || event.shiftKey || event.altKey || event.button!==0)return;
-    event.preventDefault();setLeaving(true);
-    navigation.current=setTimeout(()=>router.push("/?enter=1"+window.location.hash),matchMedia("(prefers-reduced-motion: reduce)").matches?0:420);
+    event.preventDefault();
+    if(prefersStaticScene()){router.push("/?enter=1"+window.location.hash);return;}
+    setLeaving(true);
+    navigation.current=setTimeout(()=>router.push("/?enter=1"+window.location.hash),entryExitMs);
   }
 
   return <main id="main-content" ref={host} className={`brand-entry${children?" launch-entry":""}${leaving?" entry-leaving":""}`} data-phase="8" data-settled="true" data-paused={paused}>
@@ -118,5 +123,5 @@ export function BrandEntry({locked=false,children,extraControls,celebration}:{lo
     {children}
     </div>
     </div>
-  </main>;
+  {leaving&&<><div className="entry-home-reveal" aria-hidden="true">{(["light","dark"] as const).map(theme=><img key={theme} className={"art-theme-"+theme} src={scenePosters.home[theme]} alt=""/>)}</div><EntryDissolve/></>}</main>;
 }

diff --git a/components/brand/partner-brief.ts b/components/brand/partner-brief.ts
@@ -30,7 +30,7 @@ export function createPartnerBrief(scene:T.Scene,logo:T.Texture,mobile:boolean){
  const acknowledgement=content(9.6,.45,true),ackMaterial=acknowledgement.material();for(const x of[-.31,-.15]){const g=new T.Mesh(track(new T.BoxGeometry(.038,.038,.003)),ackMaterial);g.position.set(x,-.48,0);acknowledgement.g.add(g);}const link=new T.Mesh(track(new T.PlaneGeometry(.10,.005)),ackMaterial);link.position.set(-.23,-.48,0);acknowledgement.g.add(link);
  logo.colorSpace=T.SRGBColorSpace;logo.anisotropy=4;
  const impressionMaterial=new T.MeshBasicMaterial({map:logo,transparent:true,opacity:0,depthWrite:false,toneMapped:false}),ghostMaterial=impressionMaterial.clone();materials.push(impressionMaterial,ghostMaterial);
- const logoGeometry=track(new T.PlaneGeometry(.38,.38)),impression=new T.Mesh(logoGeometry,impressionMaterial),ghost=new T.Mesh(logoGeometry,ghostMaterial);impression.position.set(.27,-.46,.035);ghost.position.copy(impression.position);impression.renderOrder=4;ghost.renderOrder=5;group.add(impression,ghost);
+ const logoGeometry=track(new T.PlaneGeometry(.45,.45)),impression=new T.Mesh(logoGeometry,impressionMaterial),ghost=new T.Mesh(logoGeometry,ghostMaterial);impression.position.set(.27,-.46,.035);ghost.position.copy(impression.position);impression.renderOrder=4;ghost.renderOrder=5;group.add(impression,ghost);
  const lightUniforms={energy:{value:0},night:{value:0}};const lightMaterial=new T.ShaderMaterial({transparent:true,depthWrite:false,toneMapped:false,uniforms:lightUniforms,vertexShader:'varying vec2 vUv;void main(){vUv=uv;gl_Position=projectionMatrix*modelViewMatrix*vec4(position,1.);}',fragmentShader:`varying vec2 vUv;uniform float energy,night;void main(){float d=length((vUv-.5)*2.);float glow=exp(-d*d*5.);gl_FragColor=vec4(mix(vec3(.03,.38,.70),vec3(.20,.69,1.),night),energy*glow*.32);\n#include <colorspace_fragment>\n}`});materials.push(lightMaterial);const light=new T.Mesh(track(new T.PlaneGeometry(.48,.39)),lightMaterial);light.position.set(.27,-.46,.032);light.renderOrder=3;group.add(light);
  parts.forEach(p=>p.group.traverse(o=>{if(o instanceof T.Mesh)o.renderOrder=2;}));
  function update(state:State,dark:boolean,ratio:number){

diff --git a/components/entry/EntryDissolve.tsx b/components/entry/EntryDissolve.tsx
@@ -1,0 +1,39 @@
+import {useEffect, useRef} from "react";
+
+/** The particle front follows the same left-to-right sweep as the page mask. */
+export const entryExitMs = 1250;
+export function EntryDissolve(){
+  const ref=useRef<HTMLCanvasElement>(null);
+  useEffect(()=>{
+    const canvas=ref.current,ctx=canvas?.getContext("2d");
+    if(!canvas||!ctx)return;
+    const root=canvas.parentElement!;
+    const width=root.clientWidth,height=root.clientHeight,ratio=Math.min(2,devicePixelRatio);
+    canvas.width=width*ratio;canvas.height=height*ratio;ctx.scale(ratio,ratio);
+    const bounds=root.getBoundingClientRect();
+    const nodes=Array.from(root.querySelectorAll<HTMLElement>(".entry-logo,.entry-wordmark,.launch-details,.entry-controls"));
+    const areas=nodes.map(n=>n.getBoundingClientRect()).filter(r=>r.width&&r.height);
+    const particles=Array.from({length:Math.min(1600,Math.round(width*1.8))},(_,i)=>{
+      const r=i%4?areas[i%areas.length]:null;
+      const x=r?r.left-bounds.left+Math.random()*r.width:Math.random()*width;
+      const y=r?r.top-bounds.top+Math.random()*r.height:Math.random()*height;
+      return {x,y,delay:x/width*.76,dy:(Math.random()-.53)*90,dx:16+Math.random()*82,size:.45+Math.random()*.9};
+    });
+    const dark=document.documentElement.dataset.theme==="dark";
+    ctx.fillStyle=dark?"#96dbff":"#24689a";
+    let frame=0;const start=performance.now();
+    function draw(now:number){
+      const t=Math.min(1,(now-start)/entryExitMs);
+      ctx!.clearRect(0,0,width,height);
+      root.style.setProperty("--entry-wipe",String(t*130-15)+"%");
+      for(const p of particles){
+        const u=(t-p.delay)/.24;if(u<=0||u>=1)continue;
+        ctx!.globalAlpha=.8*Math.sin(Math.PI*u);
+        ctx!.fillRect(p.x+p.dx*u,p.y+p.dy*u*u,p.size,p.size);
+      }
+      if(t<1)frame=requestAnimationFrame(draw);
+    }
+    frame=requestAnimationFrame(draw);return ()=>cancelAnimationFrame(frame);
+  },[]);
+  return <canvas className="entry-dissolve" ref={ref} aria-hidden="true"/>;
+}
